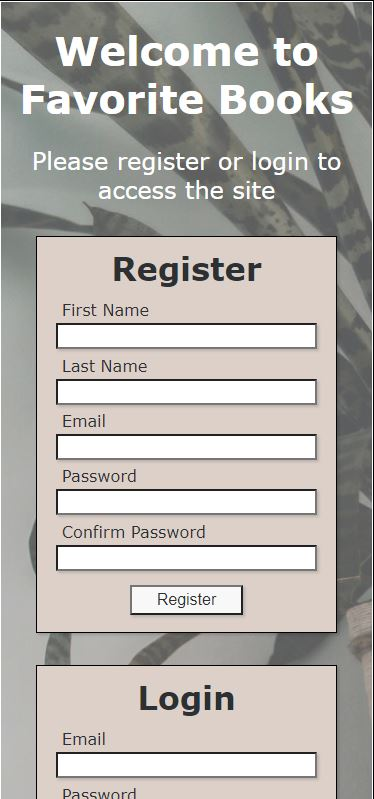
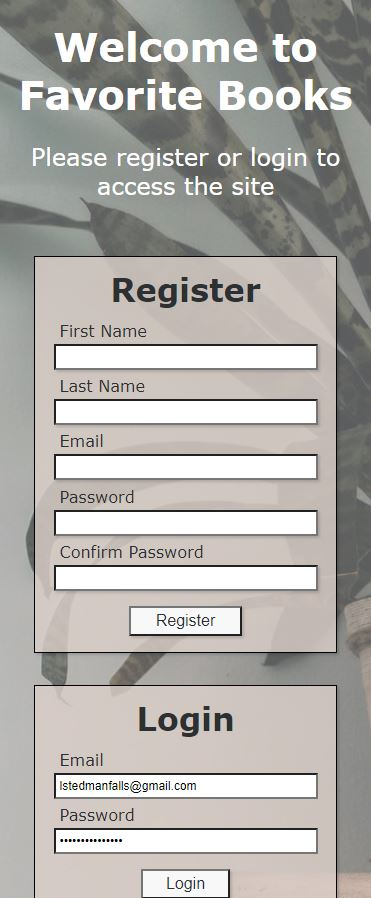
Added more styling

diff --git a/books_app/static/style.css b/books_app/static/style.css
@@ -3,6 +3,23 @@
     padding:0;
 }
 
+#container{
+    position:relative;
+    min-height:100vh;
+}
+
+#container::after{
+    content:"";
+    background-image:url("books.jpg");
+    opacity:.7;
+    top:0;
+    left:0;
+    bottom:0;
+    right:0;
+    position:absolute;
+    z-index:-1;
+}
+
 html{
     font-size:10px;
     font-family: Arial, Helvetica, sans-serif;
@@ -12,7 +29,7 @@ nav{
     display: flex;
     justify-content: space-between;
     align-items:center;
-    background-color: #dcd0c9;
+    background-color: rgba(220, 208, 201, .8);
     padding:2rem 2.5rem;
     border-top:.2rem solid black;
     border-bottom:.2rem solid black;
@@ -45,30 +62,22 @@ nav button:hover, nav a:hover{
 }
 
 .wrapper{
-    position:relative;
-    min-height:100vh;
     display: flex;
     justify-content: space-evenly;
     padding-top:4rem;
 }
-.wrapper::after{
-    content:"";
-    background-image:url("books.jpg");
-    opacity:.7;
-    top:0;
-    left:0;
-    bottom:0;
-    right:0;
-    position:absolute;
-    z-index:-1;
-}
 
 #book_page_wrapper > div{
-    background-color:#dcd0c9;
+    background-color:rgba(220, 208, 201, .8);
+    border:.2rem solid black;
 }
 
 #books{
-    width:70%;
+    width:50%;
+}
+
+#add_book{
+    width:20%;
 }
 
 #add_book, #add_book form, #books, #books > div{
@@ -80,4 +89,5 @@ nav button:hover, nav a:hover{
 #add_book h1, #books h1{
     font-size:4rem;
     padding-top:3rem;
+    text-align: center;
 }

diff --git a/books_app/templates/books.html b/books_app/templates/books.html
@@ -19,7 +19,7 @@
         </nav>
         <div class="wrapper" id="book_page_wrapper">
             <div id="books">
-                <h1>All Books</h1>
+                <h1>America's Favorite Books</h1>
                 {% for book in all_the_books %}
                 <div>
                     <a href= "{{book.id}}"><h2>{{book.title}}</h2></a>
@@ -41,7 +41,7 @@
                 {% endfor %}
             </div>   
             <div id ="add_book">
-                <h1>Add a Favorite Book</h1>
+                <h1>Add Your Favorite Book</h1>
                     <div id="messages">
                     {% if messages %}
                     <ul class="messages">

diff --git a/login_registration_app/static/login_style.css b/login_registration_app/static/login_style.css
@@ -116,7 +116,7 @@ p{
 }
 
 #wrapper div{
-    background-color:#dcd0c9;
+    background-color:rgba(220, 208, 201, .8);
     width:25%;
     margin:0 7rem;
     border:.2rem solid black;
